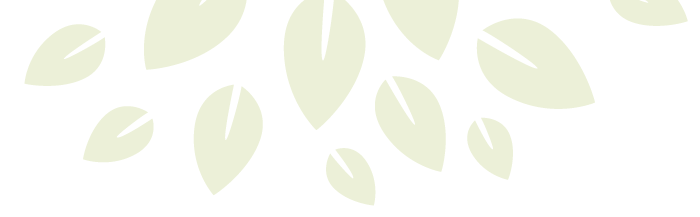
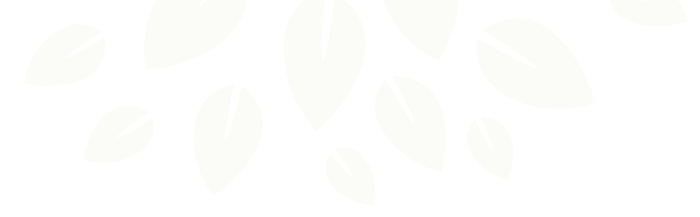
a little tweak to the footer style to make it more visually consistent

diff --git a/stylesheets/shared-package/default.css b/stylesheets/shared-package/default.css
@@ -289,8 +289,8 @@ footer {
     }
     footer.short {
         color: #555;
-        background: #eee;
-        border-top: 1px solid #bbb;
+        background: url(/images/light-page-bg.png) repeat-x 0 -20px;
+        border-top: 1px solid #C6D1AD;
         z-index: 10;
     }
     footer #leaves {
